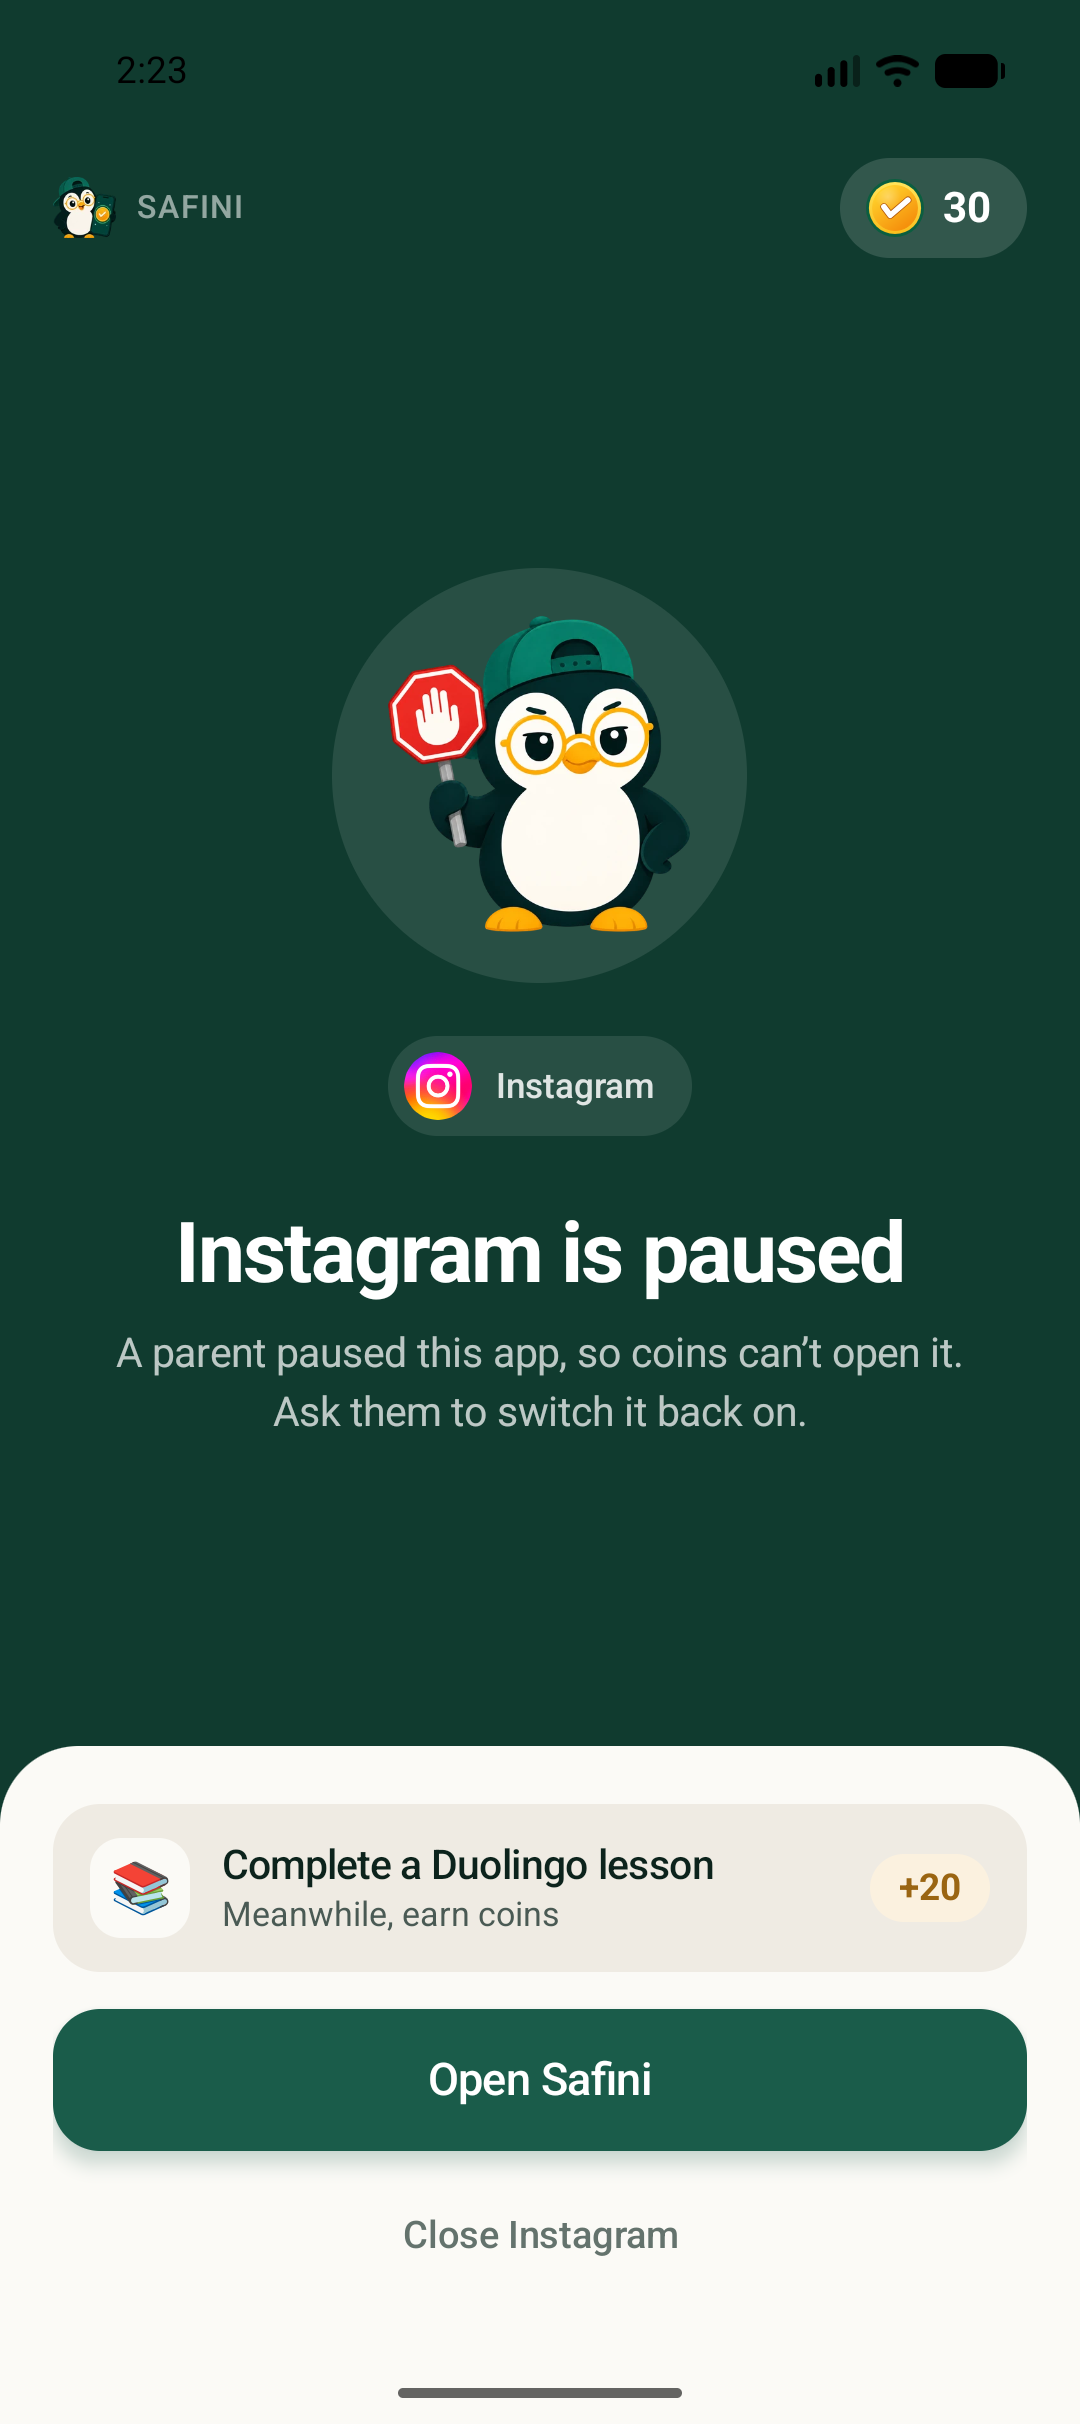
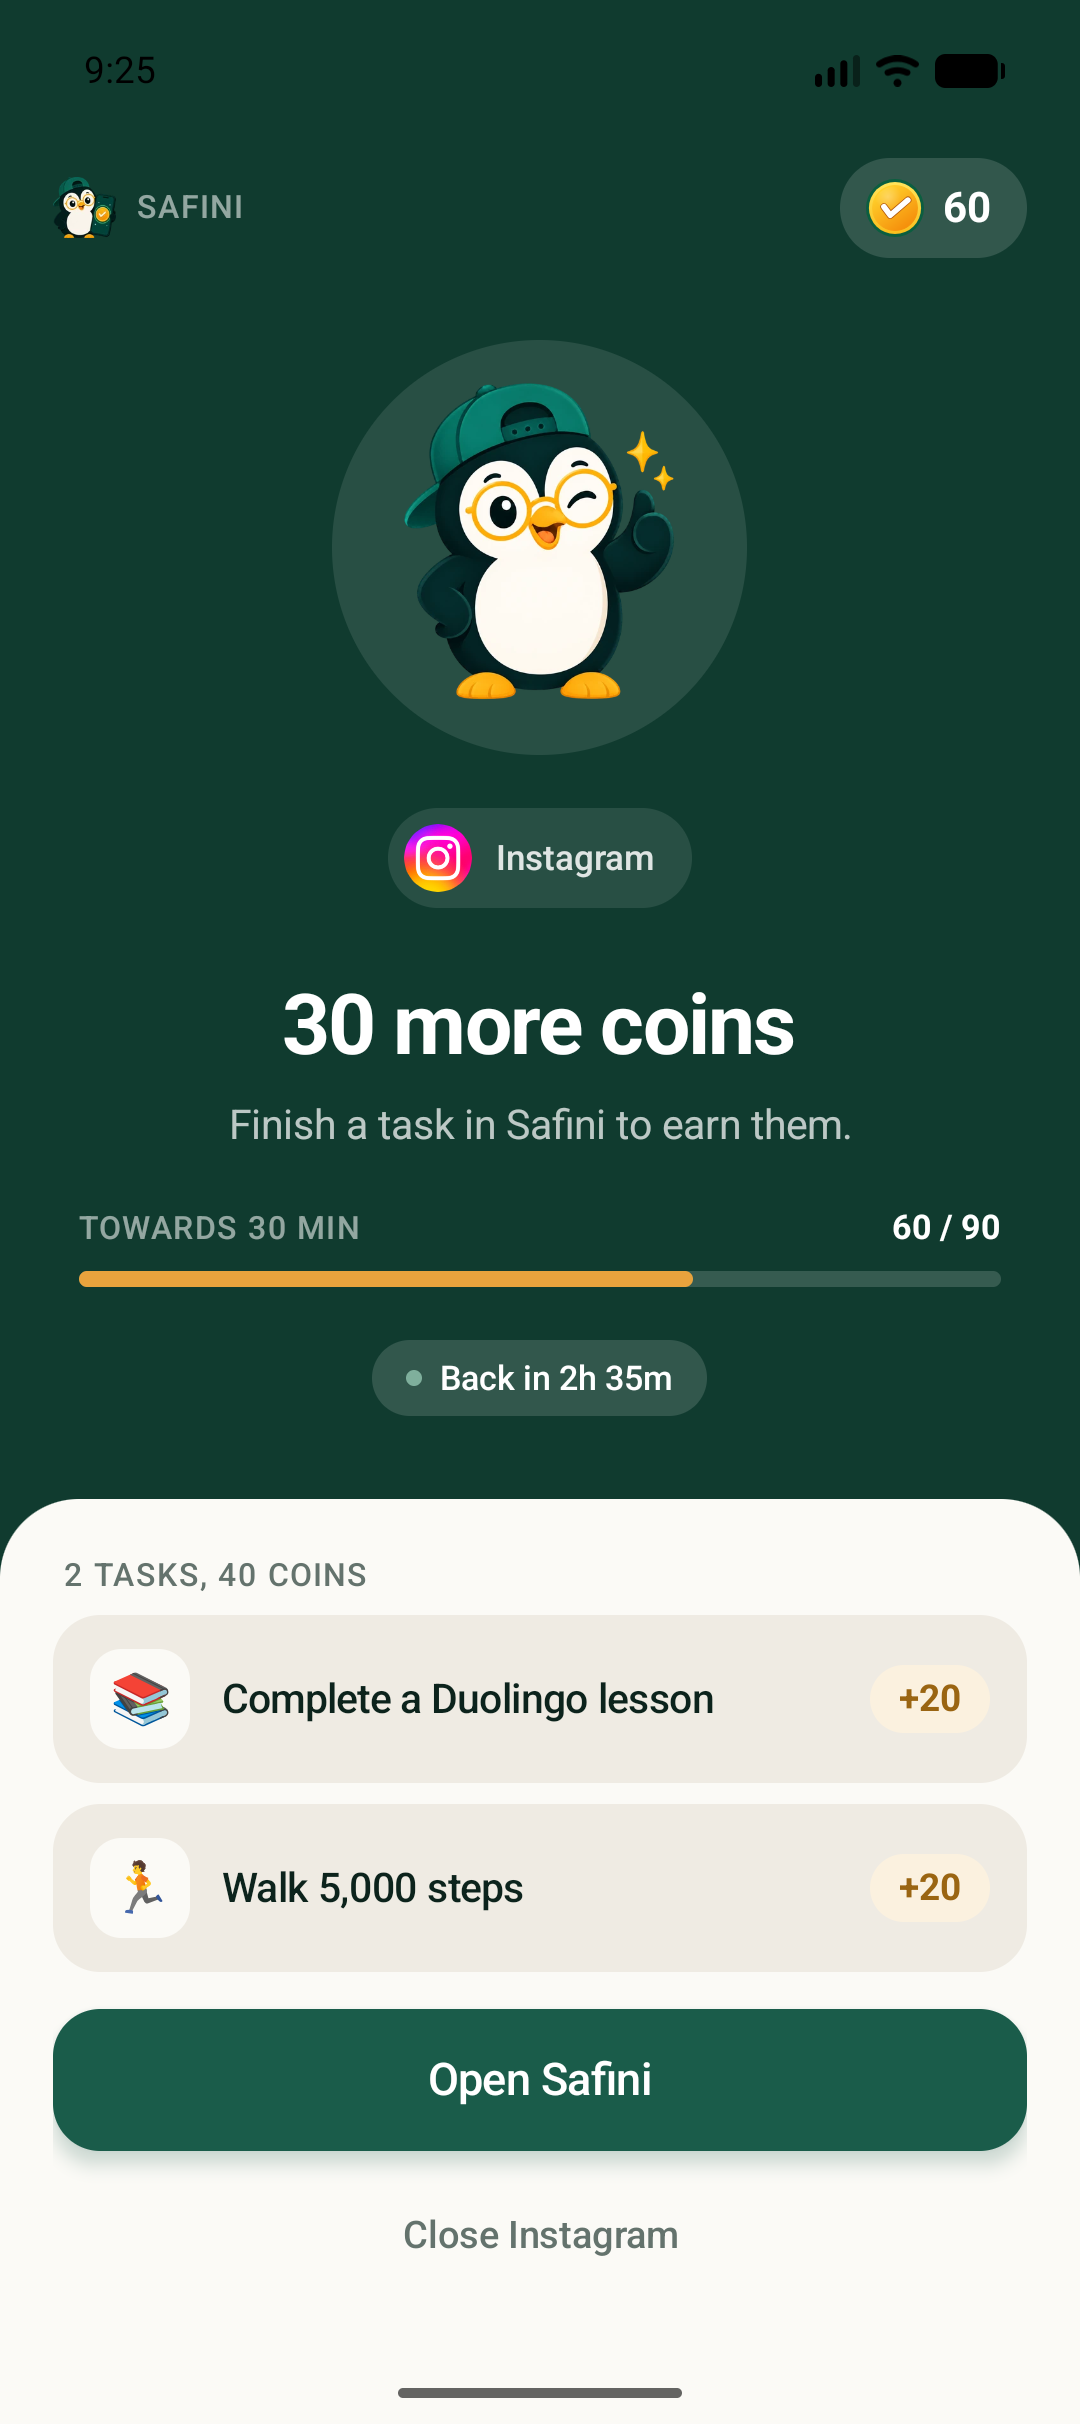
feat: show Instagram coin shortfall

Changed region(s): [[0.0917, 0.1547, 0.9167, 0.5879], [0.0, 0.6188, 1.0, 0.8045]]

diff --git a/README.md b/README.md
@@ -90,8 +90,9 @@ Each locale uses its matching 1080×2424 capture:
 `assets/screens/safini-app-android-instagram-blocked-en.png`,
 `assets/screens/safini-app-android-instagram-blocked-ru.png`, and
 `assets/screens/safini-app-android-instagram-blocked-uz.png`. Each one shows
-Instagram paused, the child's 30-coin balance, and a visible +20 Duolingo task
-in the same language as the screen. Every file is under 222 KB, well within the
+the real insufficient-coins flow: a 60-coin balance against a 90-coin
+30-minute Instagram offer, with a visible +20 Duolingo task in the same
+language as the screen. Every file is under 230 KB, well within the
 landing page media budget.
 
 ---
